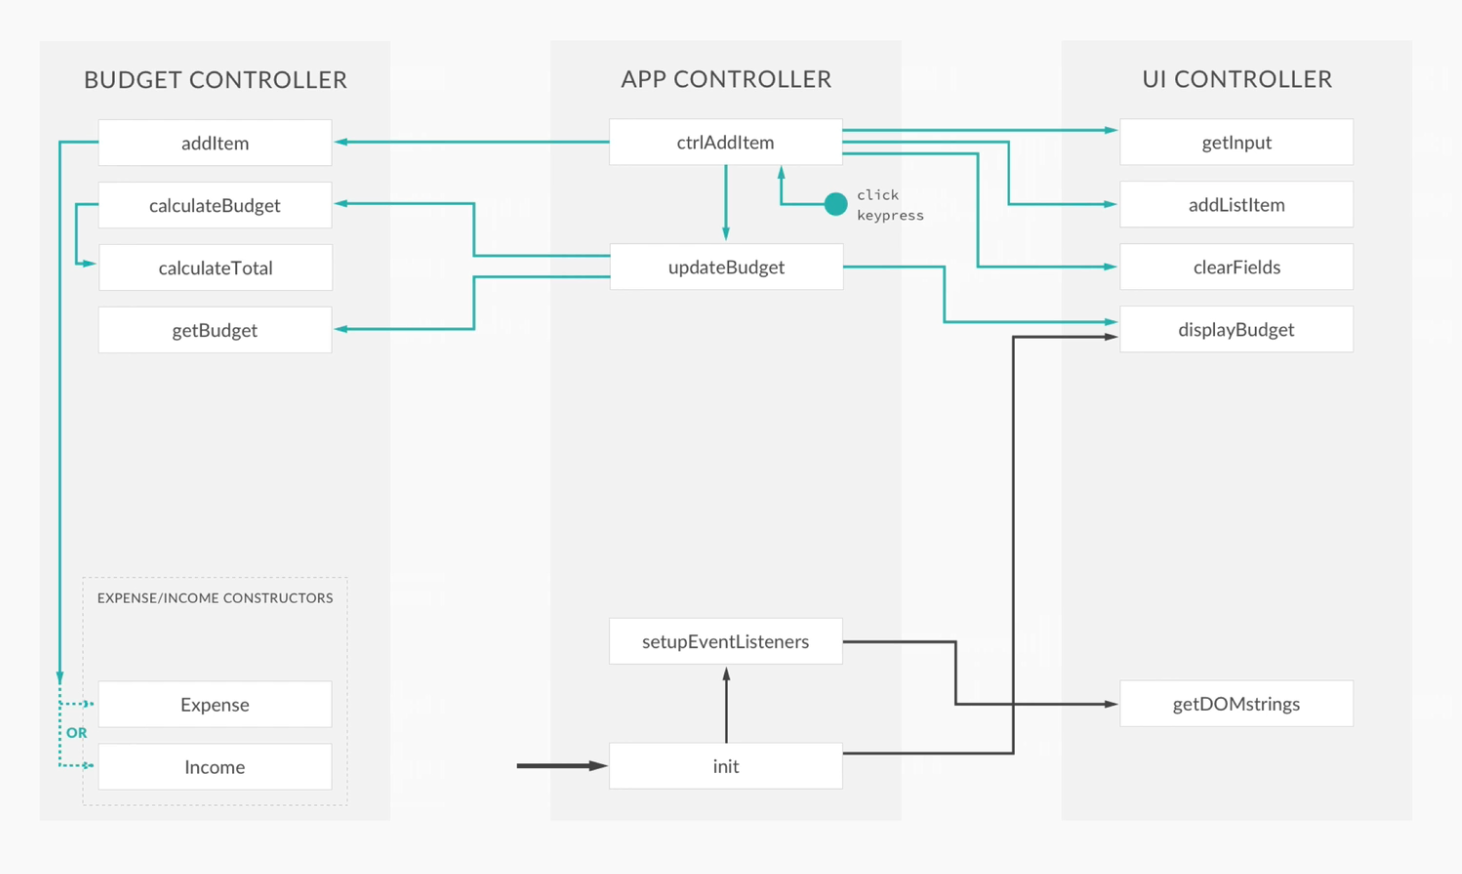
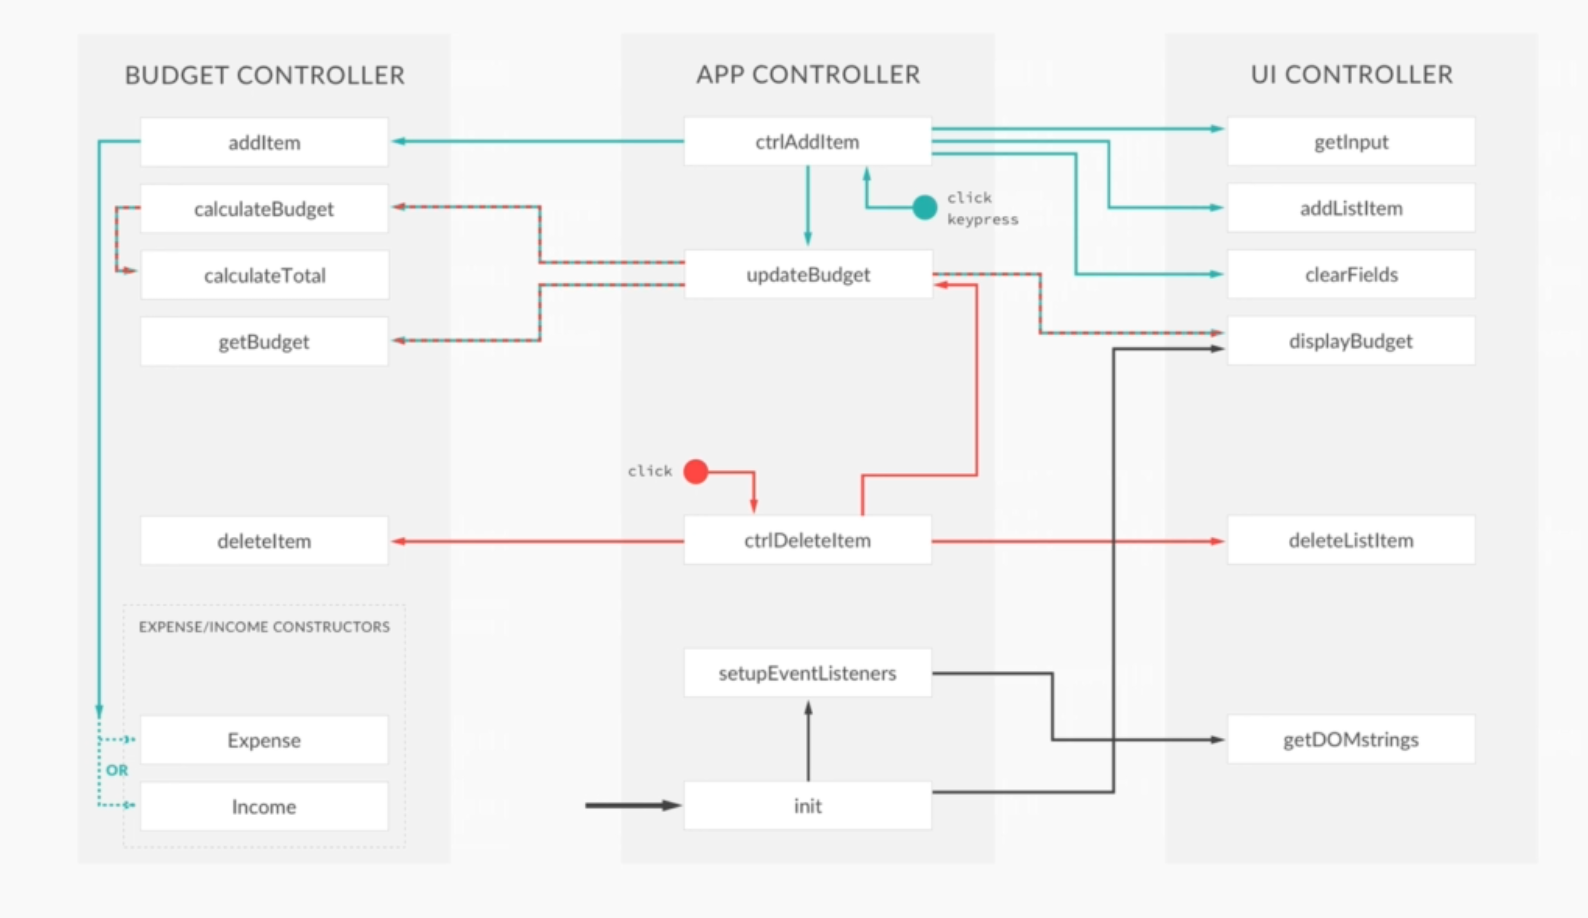
updated structure image

diff --git a/app.js b/app.js
@@ -59,6 +59,21 @@ var budgetController = (function () {
             return newItem;
         },
 
+        deleteItem: function (type, id) {
+            var ids, index;
+
+            ids = data.allItems[type].map(function (current) {
+                return current.id;
+            });
+
+            index = ids.indexOf(id);
+
+            if (index !== -1) {
+                data.allItems[type].splice(index, 1);
+            };
+
+        },
+
         calculateBudget: function () {
 
             // Calculate total income and expenses
@@ -145,6 +160,12 @@ var UIController = (function () {
             document.querySelector(element).insertAdjacentHTML('beforeend', newHtml);
 
         },
+
+        deleteListItem: function (selectorID) {
+            var el = document.getElementById(selectorID);
+            el.parentNode.removeChild(el);
+        },
+
 
         clearFields: function () {
             var fields, fieldsArr;
@@ -246,14 +267,16 @@ var controller = (function (budgetCtrl, UICtrl) {
             // inc-1
             splitID = itemID.split('-');
             type = splitID[0];
-            ID = splitID[1];
+            ID = parseInt(splitID[1]);
 
             // 1. delete the item from the data structure
+            budgetCtrl.deleteItem(type, ID);
 
             // 2. delete the item from the UI
+            UICtrl.deleteListItem(itemID);
 
             // 3. Update and show new budget
-
+            updateBudget();
         }
 
     };
